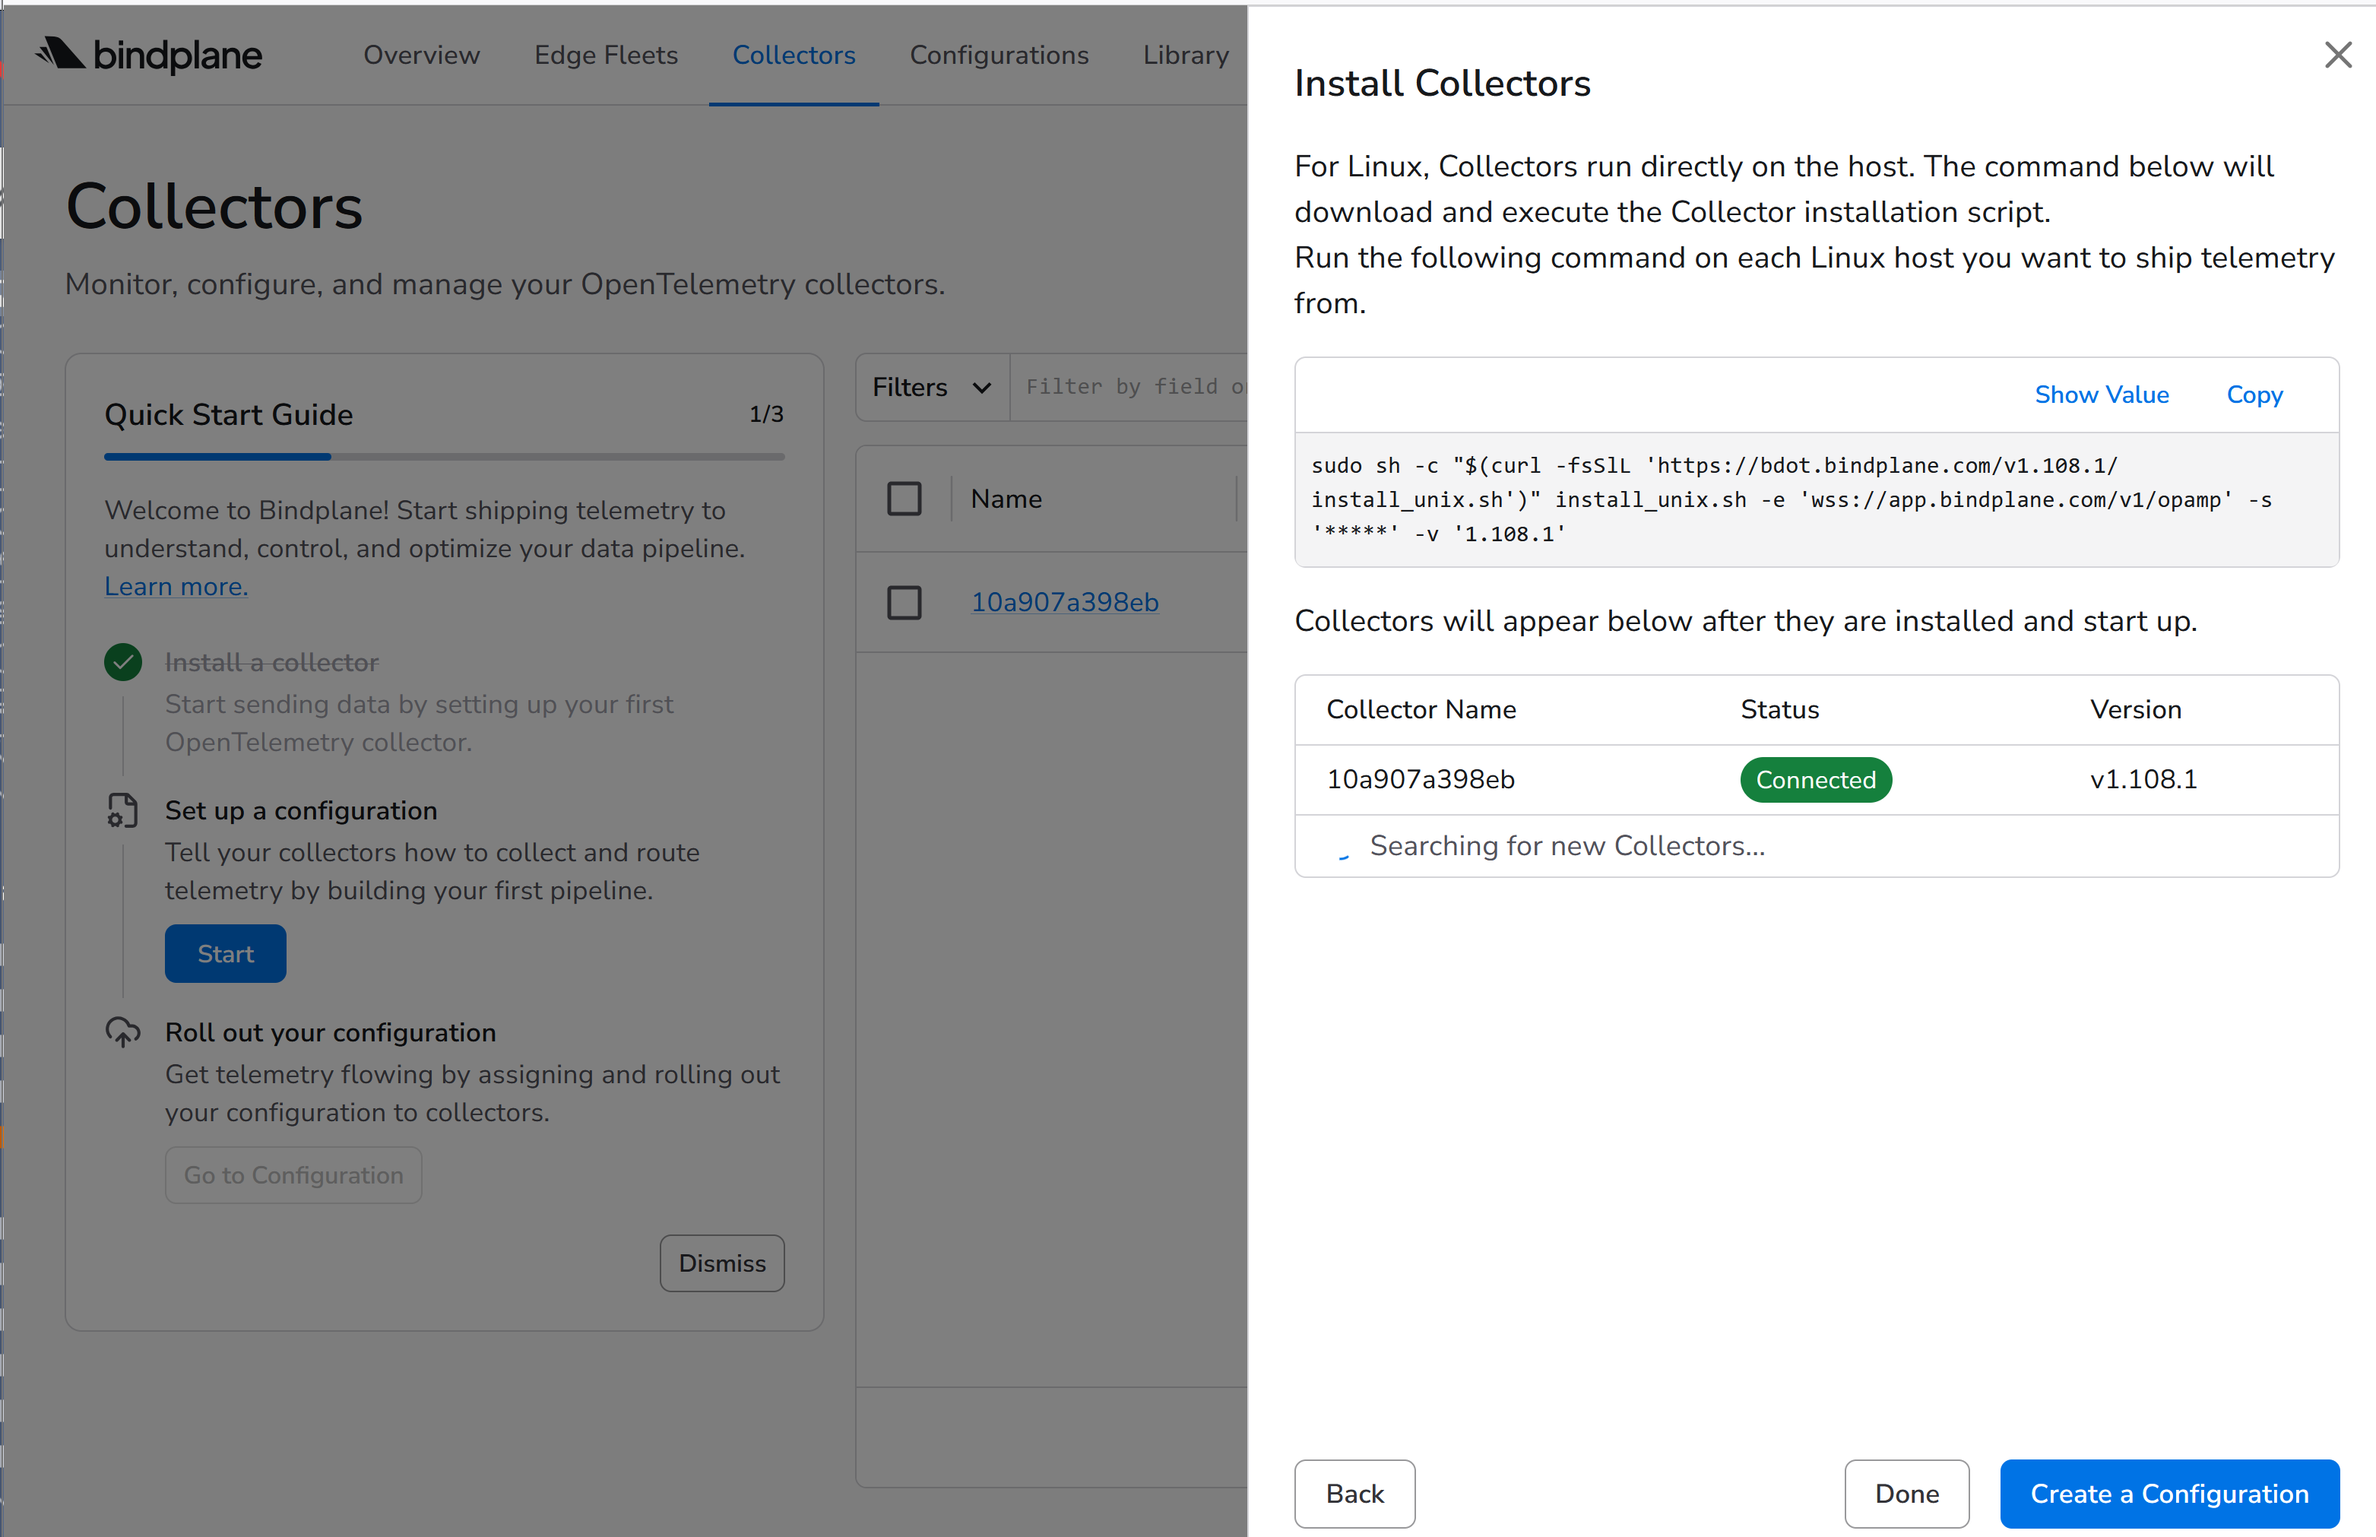
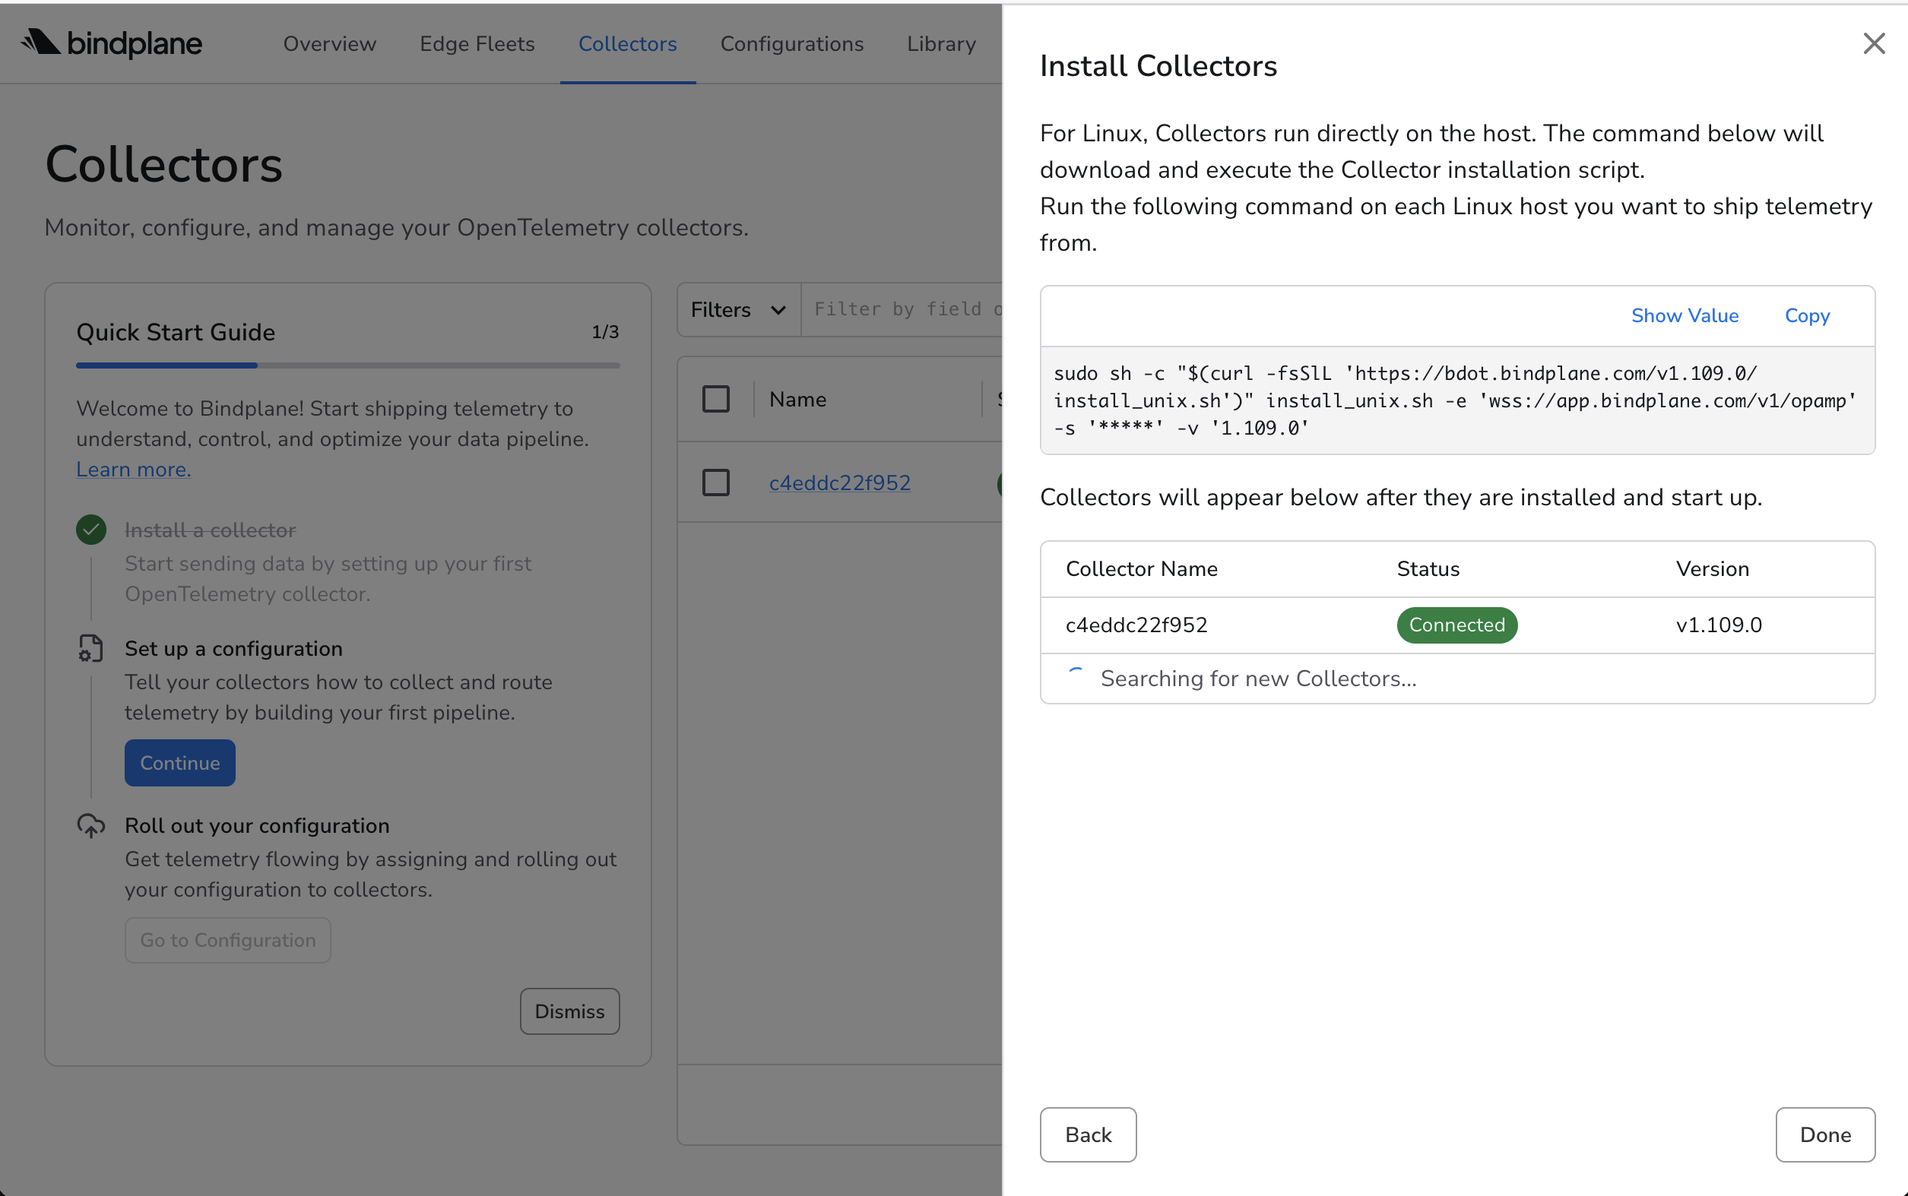
small updates

diff --git a/docs/4-bindplane-configuration.md b/docs/4-bindplane-configuration.md
@@ -16,7 +16,9 @@ In this section you build your first configuration: four sources and one destina
 Once you assign your agent and roll it out, you will see throughput in the Bindplane pipeline overview and records arriving in the Dynatrace Logs app.
 
 ### 1. Create the configuration
-Choose a descriptive name for your configuration, choose **Linux** for the platform, and click "next"
+Click **Configurations** then **Create Configuration**
+
+Choose a descriptive name for your configuration, choose **Linux** for the platform, **Edge** for the Collector Role and click "next"
 ![alt text](img/4-bindplane-configuration/1-create-configuration.png)
 
 ### Watch: adding all four sources
@@ -48,6 +50,8 @@ Configure it with all three log files. These are the only three worth collecting
 
 ![Configure the File source paths](img/4-bindplane-configuration/2-find-source-file-paths.png)
 
+Click **Save**
+
 ### 3. Add the Syslog source
 
 Click **Add Source**, search for `syslog`, and choose **Syslog**.
@@ -73,6 +77,8 @@ Click **Add Source**, search for `syslog`, and choose **Syslog**.
 
     **Parse To** must be `body`. It controls where the parsed syslog fields land, and the Parse CSV processor in a later section points at `body.message`. If you set this to `attributes`, that processor finds nothing and fails silently.
 
+Click **Save**
+
 ### 4. Add the NetFlow source
 
 Click **Add Source**, search for `netflow`, and choose **NetFlow**.
@@ -95,15 +101,23 @@ Click **Add Source**, search for `netflow`, and choose **NetFlow**.
 !!! tip "NetFlow arrives as logs"
     The NetFlow receiver emits on the logs signal, so flow records show up in the Logs app rather than as metrics. NetFlow v5 needs no template exchange, so records decode immediately.
 
+Click **Save**
+
 ### 5. Add the Bindplane source
 
-This one collects the collector's own logs, which you will use later for self-monitoring. Search for `bindplane` and choose **Bindplane**.
+This one collects the collector's own logs, which you will use later for self-monitoring. Search for `bindplane` and choose **Bindplane Collector**.
 
 ![Find the Bindplane source](img/4-bindplane-configuration/3-add-bindplane-agent-logs-source.png)
 
-Don't change any values.  Just accept the defaults.
+| Setting | Value |
+|---|---|
+| Short Description | `Bindplane self-telemetry` |
+
+Don't change any other values.  Just accept the defaults.
 
 ![Configure the Bindplane Collector source](img/4-bindplane-configuration/bindplane-self-telemetry.png)
+
+Click **Save**
 
 <!-- | Setting | Value |
 |---|---|
@@ -138,11 +152,11 @@ Alternatively, you can enter a custom [Dynatrace OTLP endpoint](https://docs.dyn
 
 ![alt text](img/4-bindplane-configuration/5-alt.png)
 
-Click "Save" and you'll be sent to the Configuration you just created.
+Click **Save** and then **Save** again, and you'll be sent to the Configuration you just created.
 
 ### 8. View the Configuration and Pipeline
 
-We've created a Bindplane Configuration that can deployed wherever we need to collect and send logs.  You can see the logs pipeline we created, but it's not doing much right now because we haven't told any agents to use it.  Scroll down and you'll see a listing of all the agents using this configuration (none yet!), and a button to "Add Agents".
+We've created a Bindplane Configuration that can deployed wherever we need to collect and send logs.  You can see the logs pipeline we created, but it's not doing much right now because we haven't told any agents to use it.  Scroll down and you'll see a listing of all the agents using this configuration (none yet!), and a button to "Add Collectors".
 
 ![alt text](img/4-bindplane-configuration/6-view-pipeline.png)
 
@@ -154,13 +168,13 @@ The pipeline graph shows all four sources converging on the Dynatrace destinatio
 
 ![Pipeline graph with all four sources](img/4-bindplane-configuration/6-view-pipeline-with-bindplane-collector-source.png)
 
-!!! tip "Throughput reads 0 B/m until an agent is attached"
+!!! tip "Throughput reads 0 B/m until an collectors is attached"
     The percentages on each link are the share of data flowing down that path. They stay at zero until you complete the next step, so do not read anything into them yet.
 
 ### 9. Add the Agents to the Configuration
 
-1. Click "Add Agents"
-2. In the pop-up dialog, choose the Agent you created earlier
+1. Click "Add Collectors"
+2. In the pop-up dialog, choose the collector you created earlier
 3. Click "Apply"
 
 ![alt text](img/4-bindplane-configuration/7-add-agent.png)

diff --git a/docs/3-bindplane-agent.md b/docs/3-bindplane-agent.md
@@ -1,8 +1,8 @@
-The **Bindplane Agent** is the component that runs on a host and collects telemetry. Its Bindplane's distribution of the OpenTelemetry Collector which is purpose-built for managed deployment. This means Bindplane can push configuration changes to it remotely via the OpAmp protocol, without you ever touching the host directly.
+The **Bindplane Collector** is the component that runs on a host and collects telemetry. Its Bindplane's distribution of the OpenTelemetry Collector which is purpose-built for managed deployment. This means Bindplane can push configuration changes to it remotely via the OpAmp protocol, without you ever touching the host directly.
 
-Once the agent is running and visible in the Bindplane UI, you're ready to tell it what to collect and where to send it.
+Once the collector is running and visible in the Bindplane UI, you're ready to tell it what to collect and where to send it.
 
-### Watch: get the agent installation command
+### Watch: get the collector installation command
 
 <video controls muted playsinline preload="metadata" style="width:100%; max-width:100%; height:auto;">
   <source src="../img/3-bindplane-agent/get_agent_installation_command.mp4" type="video/mp4">
@@ -18,21 +18,21 @@ The written steps below follow the same flow.
 Click the button "Install Agent"
 <!-- ![Install Agent](img/3-bindplane-agent/install_agent.png) -->
 
-### 2. Specify your agent configuration
-You can use the default, stable Agent Type.
+### 2. Specify your collector configuration
+You can use the default, stable Collector Type.
 
 You can leave "Fleet" blank.
 
 Choose **Linux** for the platform and click "Next"
 
-<!-- ![Agent Platform](img/3-bindplane-agent/agent_platform.png) -->
+<!-- ![Agent Platform](img/3-bindplane-collector/agent_platform.png) -->
 
-### Install the agent
-You'll be shown a command that installs the agent.  Copy it and run it in your terminal.
+### Install the collector
+You'll be shown a command that installs the collector.  Copy it and run it in your terminal.
 
 <!-- ![Install Command](img/3-bindplane-agent/install_command.png) -->
 
-You should see some text scroll by, and a message indicating that the Bindplane agent was installed.
+You should see some text scroll by, and a message indicating that the Bindplane collector was installed.
 
 <video controls muted playsinline preload="metadata" style="width:100%; max-width:100%; height:auto;">
   <source src="../img/3-bindplane-agent/terminal-installation.mp4" type="video/mp4">
@@ -40,7 +40,7 @@ You should see some text scroll by, and a message indicating that the Bindplane 
   <a href="../img/3-bindplane-agent/terminal-installation.mp4">Download the video</a> instead.
 </video>
 
-[hs-video](https://dt-arr.github.io/enablement-bindplane-logs/img/3-bindplane-agent/terminal-installation.mp4|Install the Bindplane agent|Running the install command in the dev container terminal.)
+[hs-video](https://dt-arr.github.io/enablement-bindplane-logs/img/3-bindplane-agent/terminal-installation.mp4|Install the Bindplane collector|Running the install command in the dev container terminal.)
 
 <!-- ![Terminal](img/3-bindplane-agent/terminal.png) -->
 
@@ -53,7 +53,7 @@ You may see some messages instructing you to use `systemctl` to start the Bindpl
 !!! warning "Bindplane Startup"
     Don't use the `systemctl` command to start Bindplane as the installation script mentions.  Instead, use the `startBindplane` command available in your terminal.
 
-Once you've run that command, you should see your agent show up in the Bindplane UI.  It will be named after the host it is installed on.  If you are using a Codespace, it will be your Codespace name.  If you are using a local Dev Container, it will take the name of your Docker implementation.
+Once you've run that command, you should see your collector show up in the Bindplane UI.  It will be named after the host it is installed on.  If you are using a Codespace, it will be your Codespace name.  If you are using a local Dev Container, it will take the name of your Docker implementation.
 
 ![Collector reported in](img/3-bindplane-agent/reported-collector.png)
 
